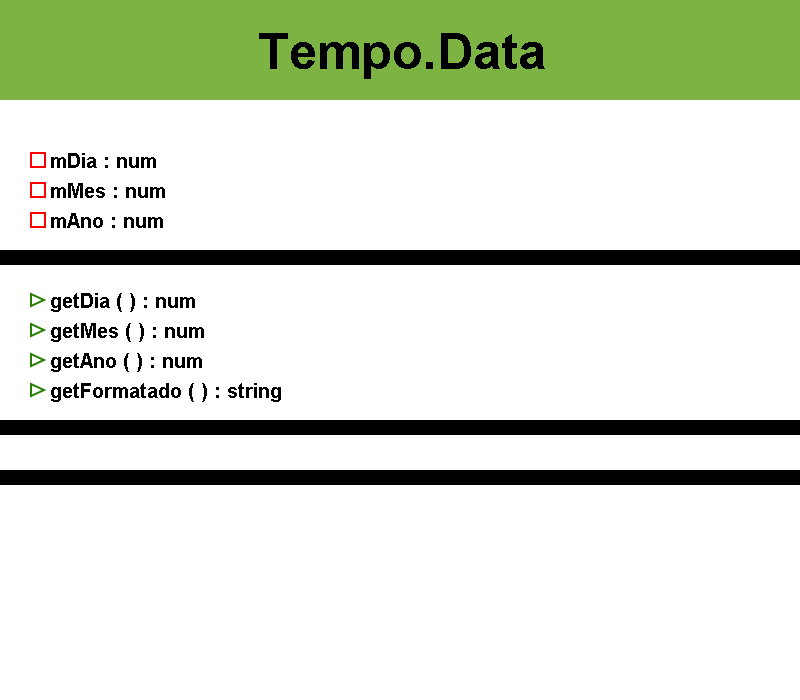
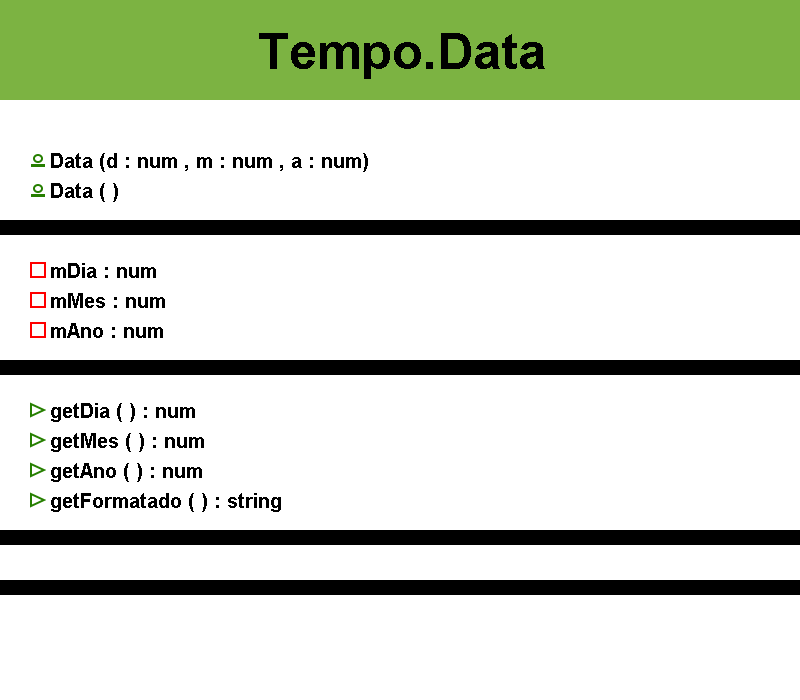
AST_VALUE - NULL

Changed region(s): [[0.0, 0.21, 1.0, 0.78], [0.0, 0.81, 1.0, 0.87]]

diff --git a/src/Sigmaz/Executor/Intellisense.java b/src/Sigmaz/Executor/Intellisense.java
@@ -34,6 +34,8 @@ public class Intellisense {
     BufferedImage IMG_OPERATOR_ALL = null;
     BufferedImage IMG_DIRECTOR_ALL = null;
 
+    BufferedImage IMG_INIT = null;
+
     BufferedImage IMG_STAGE = null;
     BufferedImage IMG_GETTER = null;
     BufferedImage IMG_SETTER= null;
@@ -63,6 +65,8 @@ public class Intellisense {
 
             IMG_OPERATOR_ALL = ImageIO.read(new File("C:\\Users\\Luand\\OneDrive\\Imagens\\Sigmaz Res\\operator.png"));
             IMG_DIRECTOR_ALL = ImageIO.read(new File("C:\\Users\\Luand\\OneDrive\\Imagens\\Sigmaz Res\\director.png"));
+
+            IMG_INIT = ImageIO.read(new File("C:\\Users\\Luand\\OneDrive\\Imagens\\Sigmaz Res\\init.png"));
 
             IMG_STAGE = ImageIO.read(new File("C:\\Users\\Luand\\OneDrive\\Imagens\\Sigmaz Res\\stage.png"));
             IMG_GETTER = ImageIO.read(new File("C:\\Users\\Luand\\OneDrive\\Imagens\\Sigmaz Res\\getter.png"));
@@ -182,8 +186,12 @@ public class Intellisense {
             eBarra = new Color(124, 179, 66);
 
             for (AST Sub2 : eTudo.getBranch("INITS").getASTS()) {
-                c += 1;
+                if (Sub2.mesmoNome(eTudo.getNome())){
+                    c += 1;
+                }
+
             }
+
         } else if (eTudo.getBranch("EXTENDED").mesmoNome("EXTERNAL")) {
 
             eBarra = new Color(255, 235, 59);
@@ -237,6 +245,36 @@ public class Intellisense {
             colocarGlobalStages(h1, mais, g, eTudo.getBranch("BODY"));
 
         } else {
+
+            Utils mUtils = new Utils();
+
+            for (AST Sub2 : eTudo.getBranch("INITS").getASTS()) {
+
+                if (Sub2.mesmoTipo("INIT")) {
+
+                    if (Sub2.mesmoNome(eTudo.getNome())){
+
+
+                        String eConteudo = mUtils.getAction(Sub2);
+
+                        g.setColor(Color.BLACK);
+                        leftString(g, new Rectangle(30, h1 + mais, eLargura, 100), eConteudo, new Font("TimesRoman", Font.BOLD, 20), IMG_INIT);
+
+                        mais += 30;
+
+
+                    }
+
+
+                }
+
+            }
+
+
+            g.setColor(Color.BLACK);
+            g.fillRect(0, h1 + mais + 50, eLargura, 15);
+
+            mais += 50;
 
 
             g.setColor(Color.BLACK);

diff --git a/src/AppSigmaz/AppSigmaz.java b/src/AppSigmaz/AppSigmaz.java
@@ -21,9 +21,9 @@ public class AppSigmaz {
         String mUML = "res/uml/uml.txt";
         String mIntellisense = "res/intellisenses/";
 
-        int ARQUIVO = 42;
+        int ARQUIVO = 30;
 
-        switch (Fases.TESTES) {
+        switch (Fases.INTELLISENSE_BIBLIOTECA) {
             case EXECUTAR -> AppUtils.EXECUTAR(ARQUIVO, mArquivos, mCompilado);
             case DEPENDENCIAS -> AppUtils.DEPENDENCIA(ARQUIVO, mArquivos);
             case IDENTAR -> AppUtils.IDENTAR(ARQUIVO, mArquivos);
@@ -43,7 +43,7 @@ public class AppSigmaz {
     public static void AUTO() {
 
         OAVersion OA = new OAVersion("Sigmaz.oa");
-        OA.init(OAVersion.Modos.RELEASE);
+        OA.init(OAVersion.Modos.INIT);
 
         OARoadmap oar = new OARoadmap("Roadmap.oa");
         oar.receber("res/roadmap/Roadmap.txt");
